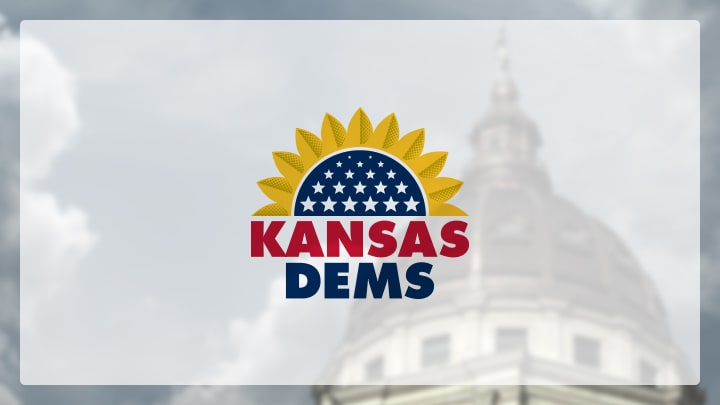
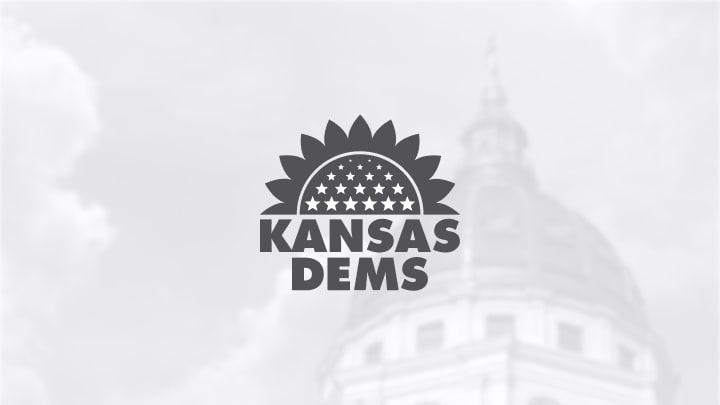
Updated project thumbnails

diff --git a/index.php b/index.php
@@ -67,7 +67,7 @@
 <!-- NONPROFITS: ROW 2 OF 2 -->
 	<div class="row">
 		<div class="col-6">
-			<a href="kc-lisc"><img src="img/samples/kc-lisc/thumbnail.new.2x.jpg" width="100%" height="auto" class="lazyload" alt="Kansas City LISC infographic design"></a>
+			<a href="kc-lisc"><img src="img/samples/kc-lisc/thumbnail.2x.jpg" width="100%" height="auto" class="lazyload" alt="Kansas City LISC infographic design"></a>
 			<div class="sample">
 				<div class="sample-desc">
 					<h2><a href="kc-lisc">KC Lisc</a></h2>
@@ -141,7 +141,7 @@
 	<div class="row">
 <!-- kansas dems -->
 		<div class="col-6">
-			<a href="kansas-dems"><img src="img/samples/kansas-dems/thumbnail.new.2x.jpg" width="100%" height="auto" class="lazyload" alt="Kansas Dems logo design"></a>
+			<a href="kansas-dems"><img src="img/samples/kansas-dems/thumbnail.2x.jpg" width="100%" height="auto" class="lazyload" alt="Kansas Dems logo design"></a>
 			<div class="sample">
 				<div class="sample-desc">
 					<h2><a href="kansas-dems">Kansas Dems</a></h2>
@@ -154,7 +154,7 @@
 		</div>
 <!-- lisa for kansas senate -->
 		<div class="col-6">
-			<a href="lisa-for-kansas-senate"><img src="img/samples/lisa-for-kansas-senate/thumbnail.new.2x.jpg" width="100%" height="auto" class="lazyload" alt="Lisa Johnston for Kansas Senate design system"></a>
+			<a href="lisa-for-kansas-senate"><img src="img/samples/lisa-for-kansas-senate/thumbnail.2x.jpg" width="100%" height="auto" class="lazyload" alt="Lisa Johnston for Kansas Senate design system"></a>
 			<div class="sample">
 				<div class="sample-desc">
 					<h2><a href="lisa-for-kansas-senate">Lisa for Kansas Senate</a></h2>
